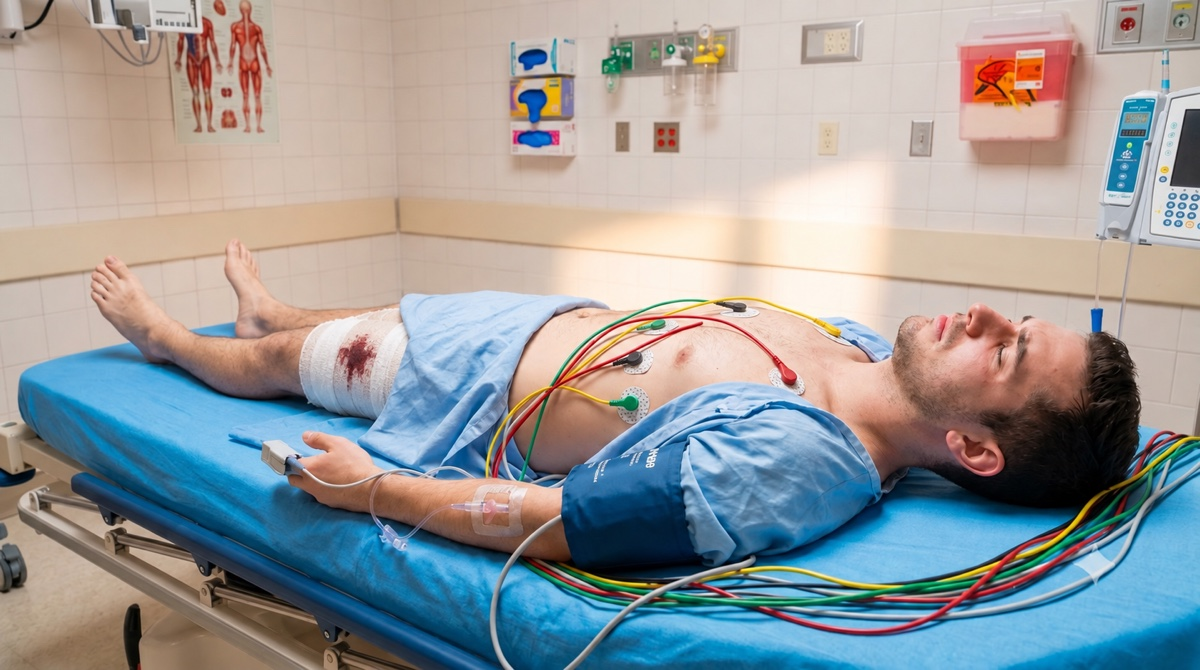
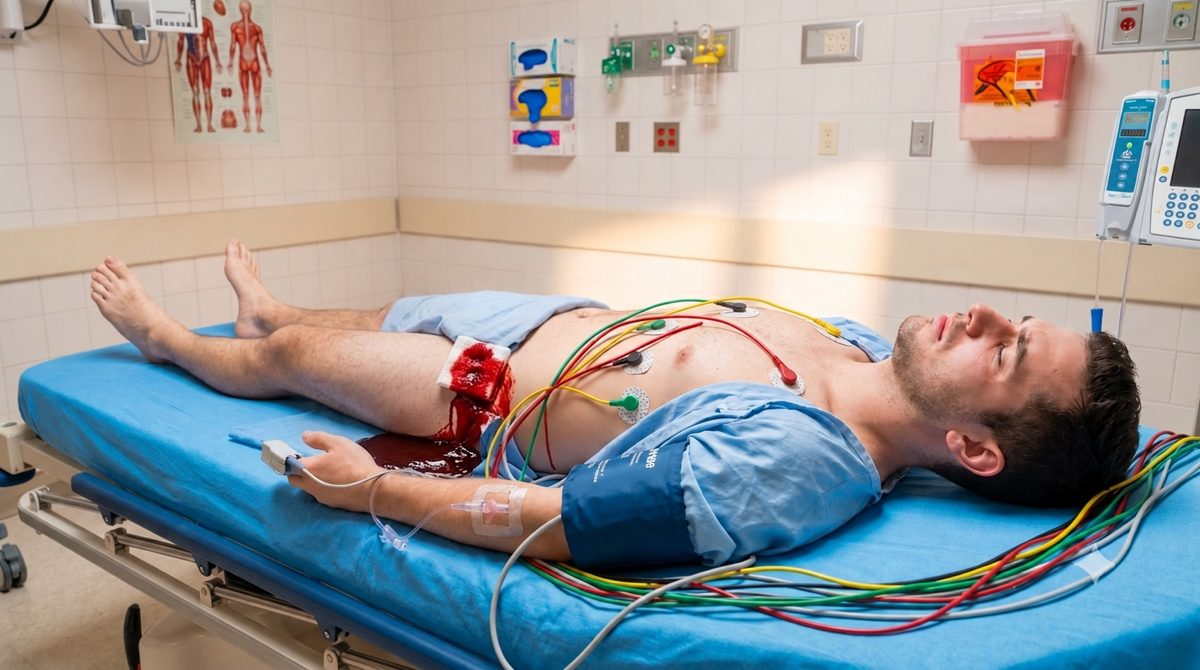
The stab wound is at the right groin in both views, and the pool throbs with the pulse

Changed region(s): [[0.2158, 0.4179, 0.4625, 0.7164], [0.4933, 0.4776, 0.555, 0.5672], [0.9558, 0.6567, 0.9867, 0.7164]]

diff --git a/index.html b/index.html
@@ -9,7 +9,7 @@
      images). Inline application scripts are pinned by SHA-256 below; dynamic content
      is attribute-escaped and inline event-handler attributes are forbidden by tests.
      `unsafe-inline` remains style-only for Tailwind's generated styles. -->
-<meta http-equiv="Content-Security-Policy" content="default-src 'self'; script-src 'self' 'sha256-ZDcn7h3I1kg49rJ1FIvjOLmX8JWhDRxYSrW7gLPQ4OA=' 'sha256-ZcyLPp1aOglvDb7XRE18cvm1cpfm2naVM/liqOUyTNQ=' blob: https://cdnjs.cloudflare.com https://cdn.jsdelivr.net; worker-src 'self' blob: https://cdnjs.cloudflare.com https://cdn.jsdelivr.net; style-src 'self' 'unsafe-inline'; font-src 'self' data:; img-src 'self' data: blob: https://upload.wikimedia.org https://commons.wikimedia.org; media-src 'self' blob: data:; connect-src 'self' blob: https://api.anthropic.com https://generativelanguage.googleapis.com https://commons.wikimedia.org https://rtkhtxnrjkgxniqxrbcf.supabase.co http://localhost:* http://127.0.0.1:*; object-src 'none'; base-uri 'self'; form-action 'self';">
+<meta http-equiv="Content-Security-Policy" content="default-src 'self'; script-src 'self' 'sha256-ZDcn7h3I1kg49rJ1FIvjOLmX8JWhDRxYSrW7gLPQ4OA=' 'sha256-khFhxOItOFwyCGRcPJOMdonP8OHG+mjKeC0w+ekunek=' blob: https://cdnjs.cloudflare.com https://cdn.jsdelivr.net; worker-src 'self' blob: https://cdnjs.cloudflare.com https://cdn.jsdelivr.net; style-src 'self' 'unsafe-inline'; font-src 'self' data:; img-src 'self' data: blob: https://upload.wikimedia.org https://commons.wikimedia.org; media-src 'self' blob: data:; connect-src 'self' blob: https://api.anthropic.com https://generativelanguage.googleapis.com https://commons.wikimedia.org https://rtkhtxnrjkgxniqxrbcf.supabase.co http://localhost:* http://127.0.0.1:*; object-src 'none'; base-uri 'self'; form-action 'self';">
 
 <title>MediSim ER — Local Edition</title>
 <script src="tailwind.min.js"></script>
@@ -8609,7 +8609,11 @@ const CASE_VISUALS = {
   },
   'resus-atls-penetrating': {
     patient:'patient-trauma/case-resus-atls-penetrating.jpg',
-    room:'scenes/room-case-resus-atls-penetrating.jpg'
+    room:'scenes/room-case-resus-atls-penetrating.jpg',
+    // Where the wound is in ITS OWN picture, in that picture's pixels (1200x670), so the blood
+    // layer throbs over the right groin. Kim, 2026-09-15: "make blood squirt or pour" — the
+    // still shows blood pouring from the gauze; this is what makes it move with the pulse.
+    wound:{box:[435,330,515,400], bleeds:'pulsing'}
   }
 };
 function casePatientImg(caseId){
@@ -9417,14 +9421,16 @@ function bloodLayerHTML(base, variant){
   // The layer is about to be (re)built, so every remembered attribute belongs to elements that
   // are on their way out — a stale memo would suppress the first write to the new ones.
   _bloodWritten = {};
-  // A case with its own hand-painted picture (CASE_VISUALS) is not the finding library's
-  // photo, so the manifest's box describes a picture nobody is looking at — draw nothing
-  // rather than put a pool on the wrong thigh. FOLLOW-UP: that costs the three cases that
-  // most deserve a bleed — resus-atls-penetrating, resus-atls-blunt-multi (whose brief says
-  // the thigh runs "freely onto the trolley") and eb-severe-tbi. They get one as soon as
-  // their hand-made pictures carry wound boxes of their own in the manifest.
-  if(casePatientImg(S.goldId)) return '';
-  const f = findingNameFor(base, variant), e = f && _findingManifest && _findingManifest[base] && _findingManifest[base][f];
+  // A case with its own hand-painted picture (CASE_VISUALS) is not the finding library's photo,
+  // so the finding manifest's box describes a picture nobody is looking at — a pool on the
+  // wrong thigh. Such a case bleeds only from a wound box authored for ITS OWN picture
+  // (CASE_VISUALS[id].wound, 2026-09-15 — the groin stab has one; the other two hand-made
+  // pictures still need theirs measured before they can bleed).
+  const caseImg = casePatientImg(S.goldId);
+  const caseWound = caseImg && (CASE_VISUALS[String(S.goldId||'')]||{}).wound;
+  if(caseImg && !caseWound) return '';
+  const f = !caseImg && findingNameFor(base, variant);
+  const e = caseWound || (f && _findingManifest && _findingManifest[base] && _findingManifest[base][f]);
   // Only the two bleeding values draw anything, and naming them both here rather than testing
   // for "not none" keeps a stray manifest value out of the attribute below. A box that is not
   // four numbers is a manifest we cannot place anything from — draw nothing rather than NaN.
